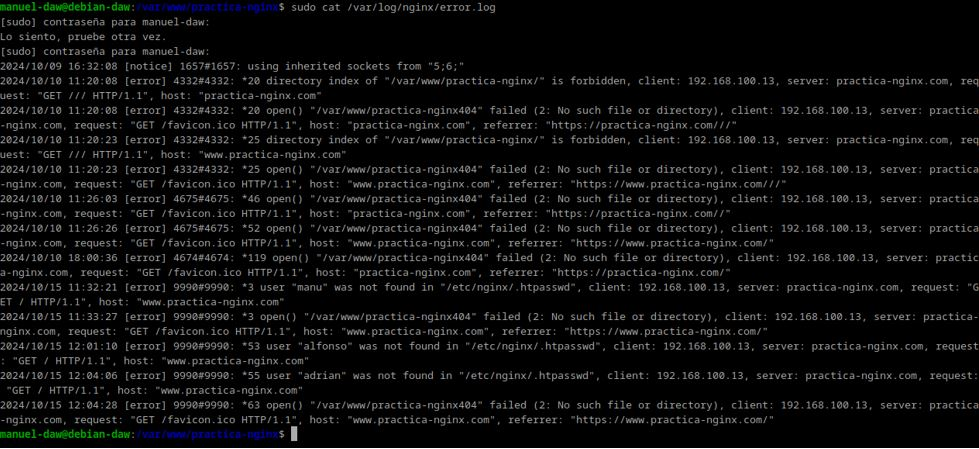
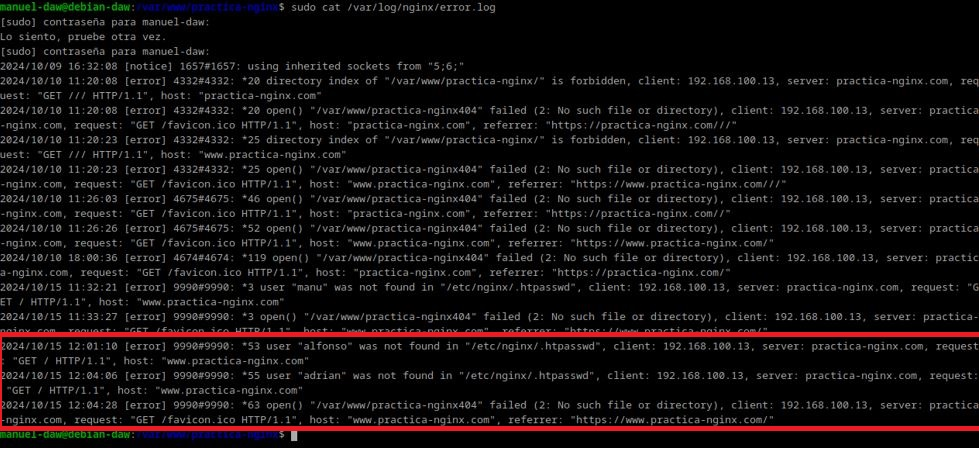
Redacción práctica 2.2

Changed region(s): [[0.0, 0.7171, 1.0, 0.7795], [0.0, 0.9354, 1.0, 0.9666]]

diff --git a/docs/practica2-2/index.md b/docs/practica2-2/index.md
@@ -8,19 +8,21 @@
 
 ## Práctica 2.2 - Autenticación en un servidor Nginx.
 
+### Objetivo de la práctica: Aprender a configurar el acceso a páginas web.
+
 ***Paquetes necesarios para realizar la práctica.***
 
-Utiliza el comando **dpkg -l | grep openssl**, en caso de que el resultado no sea el mismo, instala el paquete **openssl**, con el comando **sudo apt install openssl**
+Utiliza el comando **dpkg -l | grep openssl**, en caso de que el resultado no muestre el paquete **openssl**, instalalo con el comando **sudo apt install openssl**
 
 ![Paquetes necesarios para empezar la práctica](./img/Captura-1.JPG)
 
-El comando **dpkg -l** lista todos los paquetes instalados en el sistema con información detalla, mientras que **grep openssl** busca el nombre del paquete openssl dentro de nuestro sistema.
+El comando **dpkg -l** lista todos los paquetes instalados en el sistema con información detallada, mientras que **grep openssl** busca el nombre del paquete openssl dentro de nuestro sistema.
 
 ### 1. Creación de usuarios y contraseñas para el acceso web
 
 A continuación, vamos a crear los usuarios de nuestra página web con sus respetivas contraseñas, las cuales se guardarán encriptada en un fichero llamado **.htpasswd**
 
-Utiliza el comando **sudo sh -c "echo -n 'usuario-web:' >> /etc/nginx/.htpasswd**, el cual creara el fichero **.htpasswd** y le agregará el nombre del usuario. 
+Utiliza el comando **sudo sh -c "echo -n 'usuario-web:' >> /etc/nginx/.htpasswd**, el cual creara el fichero **.htpasswd** y le agregará el nombre del usuario.
 
 ![Creamos carpeta .htpasswd y adjuntamos usuario](./img/Captura-2.JPG)
 
@@ -40,67 +42,77 @@ Usuario con mi apellido.
 
 - Comprueba que el usuario y la contraseña aparecen cifrados en el fichero:
 
-Para ello debemos revisar el archivo donde se almacenan las contraseña de nuestro servidor, en mi caso voy a utilizar un comando que visualiza lo que hay dentro del archivo sin necesidad de abrirlo, comando **sudo cat /etc/nginx/.htpasswd**
+Para ello debemos revisar el archivo donde se almacenan las contraseña de nuestro servidor, en mi caso voy a utilizar un comando que visualiza lo que hay dentro del archivo sin necesidad de abrirlo con un editor, comando **sudo cat /etc/nginx/.htpasswd**
 
 ![Captura que muestra los usuarios y sus contraseñas encriptadas](./img/Captura-6.JPG)
 
 ### 2. Configurando el servidor Nginx para usar una autentificación básica
 
-Añadimos la autenticación en el fichero **/etc/nginx/sites-availables/nombre-web**
+Añadimos la autenticación en el fichero **/etc/nginx/sites-availables/nombre-web**, para ello utilizamos la directiva **auth_basic** que solicita la autenticación a los usuarios que intentar acceder a un recurso protegido y enlazamos el fichero **.htpasswd** con los usuarios y contraseñas a la directiva **auth_basic_user_file** 
 
 ![Autenticación en la raíz del servidor](./img/Captura-7.JPG)
 
-Reiniciamos el servidor y comprobamos que no haya ningún error.
+Reiniciamos el servidor con el comando **sudo systemctl restart nginx** para así aplicar los cambios del archivo de configuración **/etc/nginx/sites-available/nombre-web** y comprobamos que no haya ningún error con un **sudo systemctl status nginx**
 
 ![Captura 8](./img/Captura-8.JPG)
 
 ### 3. Probando la nueva configuración
 
-Comprobación 1: Comprueba desde tu máquina física/anfritiona que puedes acceder a https://nombre-sitio-web y que se solicita la autenticación.
+**Comprobación 1**: Comprueba desde tu máquina física/anfritiona que puedes acceder a https://nombre-sitio-web y que se solicita la autenticación.
+
+Entra en la página web e introduce un usuario incorrecto.
 
 ![Inicio de Sesión Incorrecto](./img/Captura-9.JPG)
 
+El resultado será que te volverán a pedir las credenciales de acceso.
+
 ![Inicio de Sesión Incorrecto](./img/Captura-10.JPG)
+
+Ahora metemos un usuario y contraseña correcto, es decir, que están dentro del fichero **.htpasswd** 
 
 ![Inicio de Sesión Correcto](./img/Captura-11.JPG)
 
+Como ves nos deja acceder a la página web.
+
 ![Inicio de Sesión Correcto](./img/Captura-12.JPG)
 
-Comprobación 2: Comprueba que si decides cancelar la autenticación, se te negará el acceso al sitio con un error. ¿Qué error es?
+**Comprobación 2**: Comprueba que si decides cancelar la autenticación, se te negará el acceso al sitio con un error. ¿Qué error es?
 
-**Error 401: Authorization required**
+**Error 401: Authorization required**, es un código de estado HTTP que indica que la solicitud realizada por el cliente no tiene las credenciales de autenticación necesarias para acceder al recurso solicitado.
 
 ![Cancelar autenticación](./img/Captura-13.JPG)
 
 ### Tareas
 
-Tarea 1
+**Tarea 1**
 
 - Intenta entrar primero con un usuario erróneo y luego con otro correcto. Puedes ver todos los sucesos y registros en los logs access.log y error.log
 
 - Adjunta una captura de pantalla de los logs donde se vea que intentas entrar primero con un usuario inválido y con otro válido. Indica dónde podemos ver los errores de usuario inválido o no encontrado, así como donde podemos ver el número de error que os aparecía antes
 
-Archivo log error.log
+Archivo log error.log, para verlo he utilizado el comando **sudo cat /var/log/nginx/access.log**, y he marcado con rojo los últimos errores generados por usuarios incorrectos, aunque sería más correcto utilizar **sudo tail -n 3 /var/log/access.log**, esto proporcionaría solo los 3 últimos errores generados en **error.log** haciendo la salida por pantalla mucho más limpia.
 
 ![Archivo log error.log](./img/Captura-14.JPG)
 
-Archivo log access.log
+Archivo log access.log, comando **sudo tail -n 5 /var/log/nginx/access.log**
 
 ![Archivo log access.log](./img/Captura-15.JPG)
 
-Tarea 2
+**Tarea 2**
 
 - Borra las dos líneas que hacen referencia a la autenticación básica en el location del directorio raíz. Tras ello, añade un nuevo location debajo con la autenticación básica para el archivo/sección contact.html únicamente.
 
+Lo primero de todo es crear el archivo **contact.html**, para ello voy a copiar el **index.html** para crear el nuevo archivo **contact.html** y voy a cambiar un poco el fichero, comandos: **sudo cp ./index.html contact.html** y **sudo nano contact.html**.
+
 ![Creamos la página contacto.html](./img/Captura-16.JPG)
 
-Modificamos el archivo de configuración.
+Modificamos el archivo de configuración, quitando la autenticación en la raíz del servidor, y añadiendosela a **contact.html**.
 
 ![Añadimos nuevo location](./img/Captura-17.JPG)
 
-Después de esto, reiniciamos el servidor Nginx para aplicar los cambios.
+Después de esto, reiniciamos el servidor Nginx para aplicar los cambios, **sudo systemctl restart nginx**.
 
-Probamos los cambios en nuestro equipo anfitrión, accediendo a contact.html.
+Probamos los cambios en nuestro equipo anfitrión, accediendo a **contact.html**, como se puede apreciar, debido a los cambios en el archivo de configuración, al entrar nos pide la autenticación.
 
 ![Accediendo a contact.html con autentificación](./img/Captura-18.JPG)
 
@@ -114,34 +126,48 @@ La autenticación básica HTTP puede ser combinada de forma efectiva con la rest
 
 Veamos cómo lo haríamos:
 
-1. Como permitir o denegar acceso sobre una IP concreta (directivas allow y deny, respectivamente). Dentro del block server o archivo de configuración del dominio web, que recordad está en el directorio sites-available:
+1. Como permitir o denegar acceso sobre una IP concreta (directivas allow y deny, respectivamente). Dentro del block server o archivo de configuración del dominio web, que recordad está en el directorio **sites-available**:
 
-![Debe tener ip válida o usuario](./img/Captura-19.JPG)
+En este primer caso, voy a permitir el acceso a la página web al cliente con la IP 192.168.116.121, pero el acceso estará rechazado para todos los demás, tanto en **index.html** como en **contact.html**
+
+![Debe tener IP válida](./img/Captura-19.JPG)
 
 Haz un restart para guardar los cambios.
 
 2. Combinar la restricción IP y la autenticación HTTP con la directiva satisfy.
 
+En este caso, la directiva **satisfy** nos permite definir si queremos el acceso para todo tipo de usuarios, si debe tener una IP válida o usuario válido o si ambas cosas deben ser válidas para acceder, podemos combinarlo con las directivas **deny** y **allow** para tener más control.
+
 ![Debe tener IP y usuario válido](./img/Captura-20.JPG)
 
 ### Tareas (2)
 
-Tarea 1 - Configura Nginx para que no deje acceder con la IP de la máquina anfitriona al directorio raíz de una de tus dos webs. Modifica su server block o archivo de configuración. Comprueba como se deniega el acceso:
+**Tarea 1** - Configura Nginx para que no deje acceder con la IP de la máquina anfitriona al directorio raíz de una de tus dos webs. Modifica su server block o archivo de configuración. Comprueba como se deniega el acceso:
+
+Accede al archivo de configuración **/etc/nginx/sites-available/sitio-web**
 
 ![Denegar todas las IPs](./img/Captura-21.JPG)
 
 - Muestra la página de error en el navegador.
 
+**Error 403 Forbidden**, este código de estado HTTP indica que el servidor ha entendido la solicitud del cliente, pero se niega a autorizarla, es decir, el cliente está autenticado pero no tiene permisos para acceder.
+
 ![Error 403](./img/Captura-22.JPG)
 
-- Muestra el mensaje de error de error.log
+- Muestra el mensaje de error de error.log, comando: **sudo tail -n 1 /var/log/nginx/error.log**
 
-![Mensaje de error](./img/Captura-23.JPG)
+![Imprimimos por pantalla archivo error.log](./img/Captura-23.JPG)
 
-Tarea 2 - Configura Nginx para que desde tu máquina anfitriona se tenga que tener tanto una IP válida como un usuario válido, ambas cosas a la vez, y comprueba que sí puede acceder sin problemas.
+**Tarea 2** - Configura Nginx para que desde tu máquina anfitriona se tenga que tener tanto una IP válida como un usuario válido, ambas cosas a la vez, y comprueba que sí puede acceder sin problemas.
+
+Modificamos de nuevo el archivo de configuración **/etc/nginx/sites-available/sitio-web**, esta vez con la directiva **satisfy all** que hace que tengamos que tener tanto IP como autenticación correcta, para acceder a la página web, así que añade tu IP dentro de **location** usando la directiva **allow**
 
 ![Configuramos archivo de configuración](./img/Captura-24.JPG)
 
+Reinicia el servidor y haz una prueba de acceso.
+
 ![Prueba autenticación](./img/Captura-25.JPG)
+
+Resultado con usuario y contraseña correcta.
 
 ![Resultado](./img/Captura-26.JPG)
